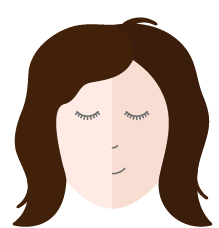
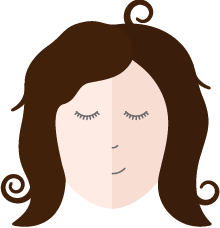
adding more levels and phrases

diff --git a/js/main.js b/js/main.js
@@ -28,12 +28,17 @@ var humidifier = {
           // Check hashtag first;
           var humidity = this.currentWeather.humidity * 100;
           console.log(humidity);
-          if (humidity < 65) {
-              this.imageName = '0-65.png';
+          if (humidity < 50) {
+              this.imageName = '0-50.png';
               this.huMessage = 'Mas o menos.';
               this.huMessageEng = '(Not so bad.)';
           }
-          else if (humidity >= 65 && humidity < 75) {
+          else if (humidity >= 50 && humidity < 65) {
+              this.imageName = '50-65.png';
+              this.huMessage = 'Sintiendome pegajosa.';
+              this.huMessageEng = '(Starting to feel it...)';
+          }
+		  else if (humidity >= 65 && humidity < 75) {
               this.imageName = '65-75.png';
               this.huMessage = 'Mi espalda se encuentra humeda.';
               this.huMessageEng = '(Whoa.  My back is sweating)';
@@ -43,10 +48,15 @@ var humidifier = {
               this.huMessage = 'Mi pelo no copera.';
               this.huMessageEng = '(My hair has a mind of its own.)';
           }
-          else if (humidity >= 85) {
-              this.imageName = '85-100.png';
+          else if (humidity >= 85 && humidity < 95) {
+              this.imageName = '85-95.png';
               this.huMessage = 'Me parezco a una Medusa.';
               this.huMessageEng = '(I look like medusa.)';
+          }
+          else if (humidity >= 95) {
+              this.imageName = '95-100.png';
+              this.huMessage = 'dios mio, mi pelo cobro vida propia.';
+              this.huMessageEng = '(I have no control over my hair at this point.)';
           }
       },
 
